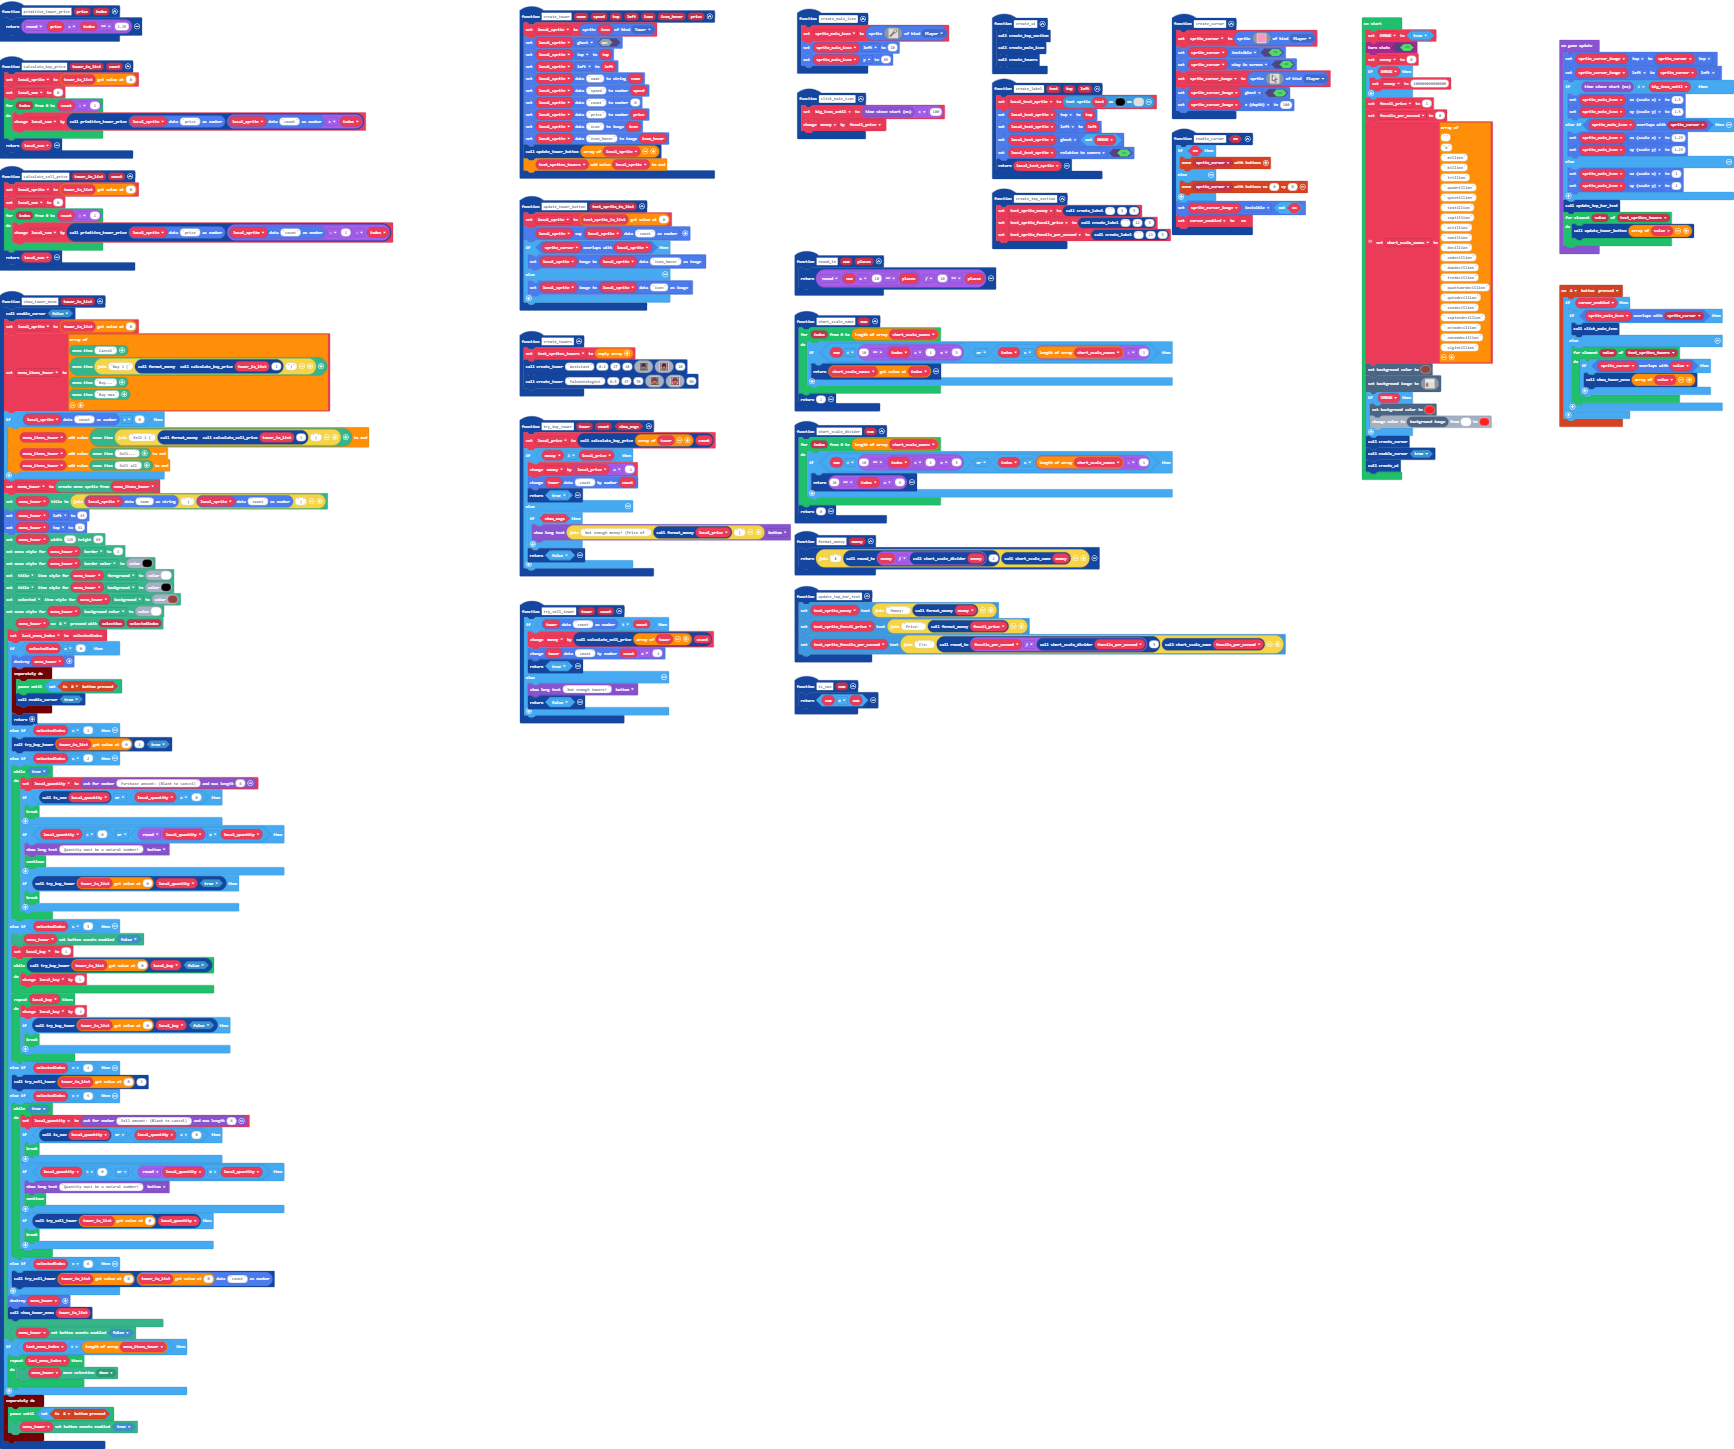
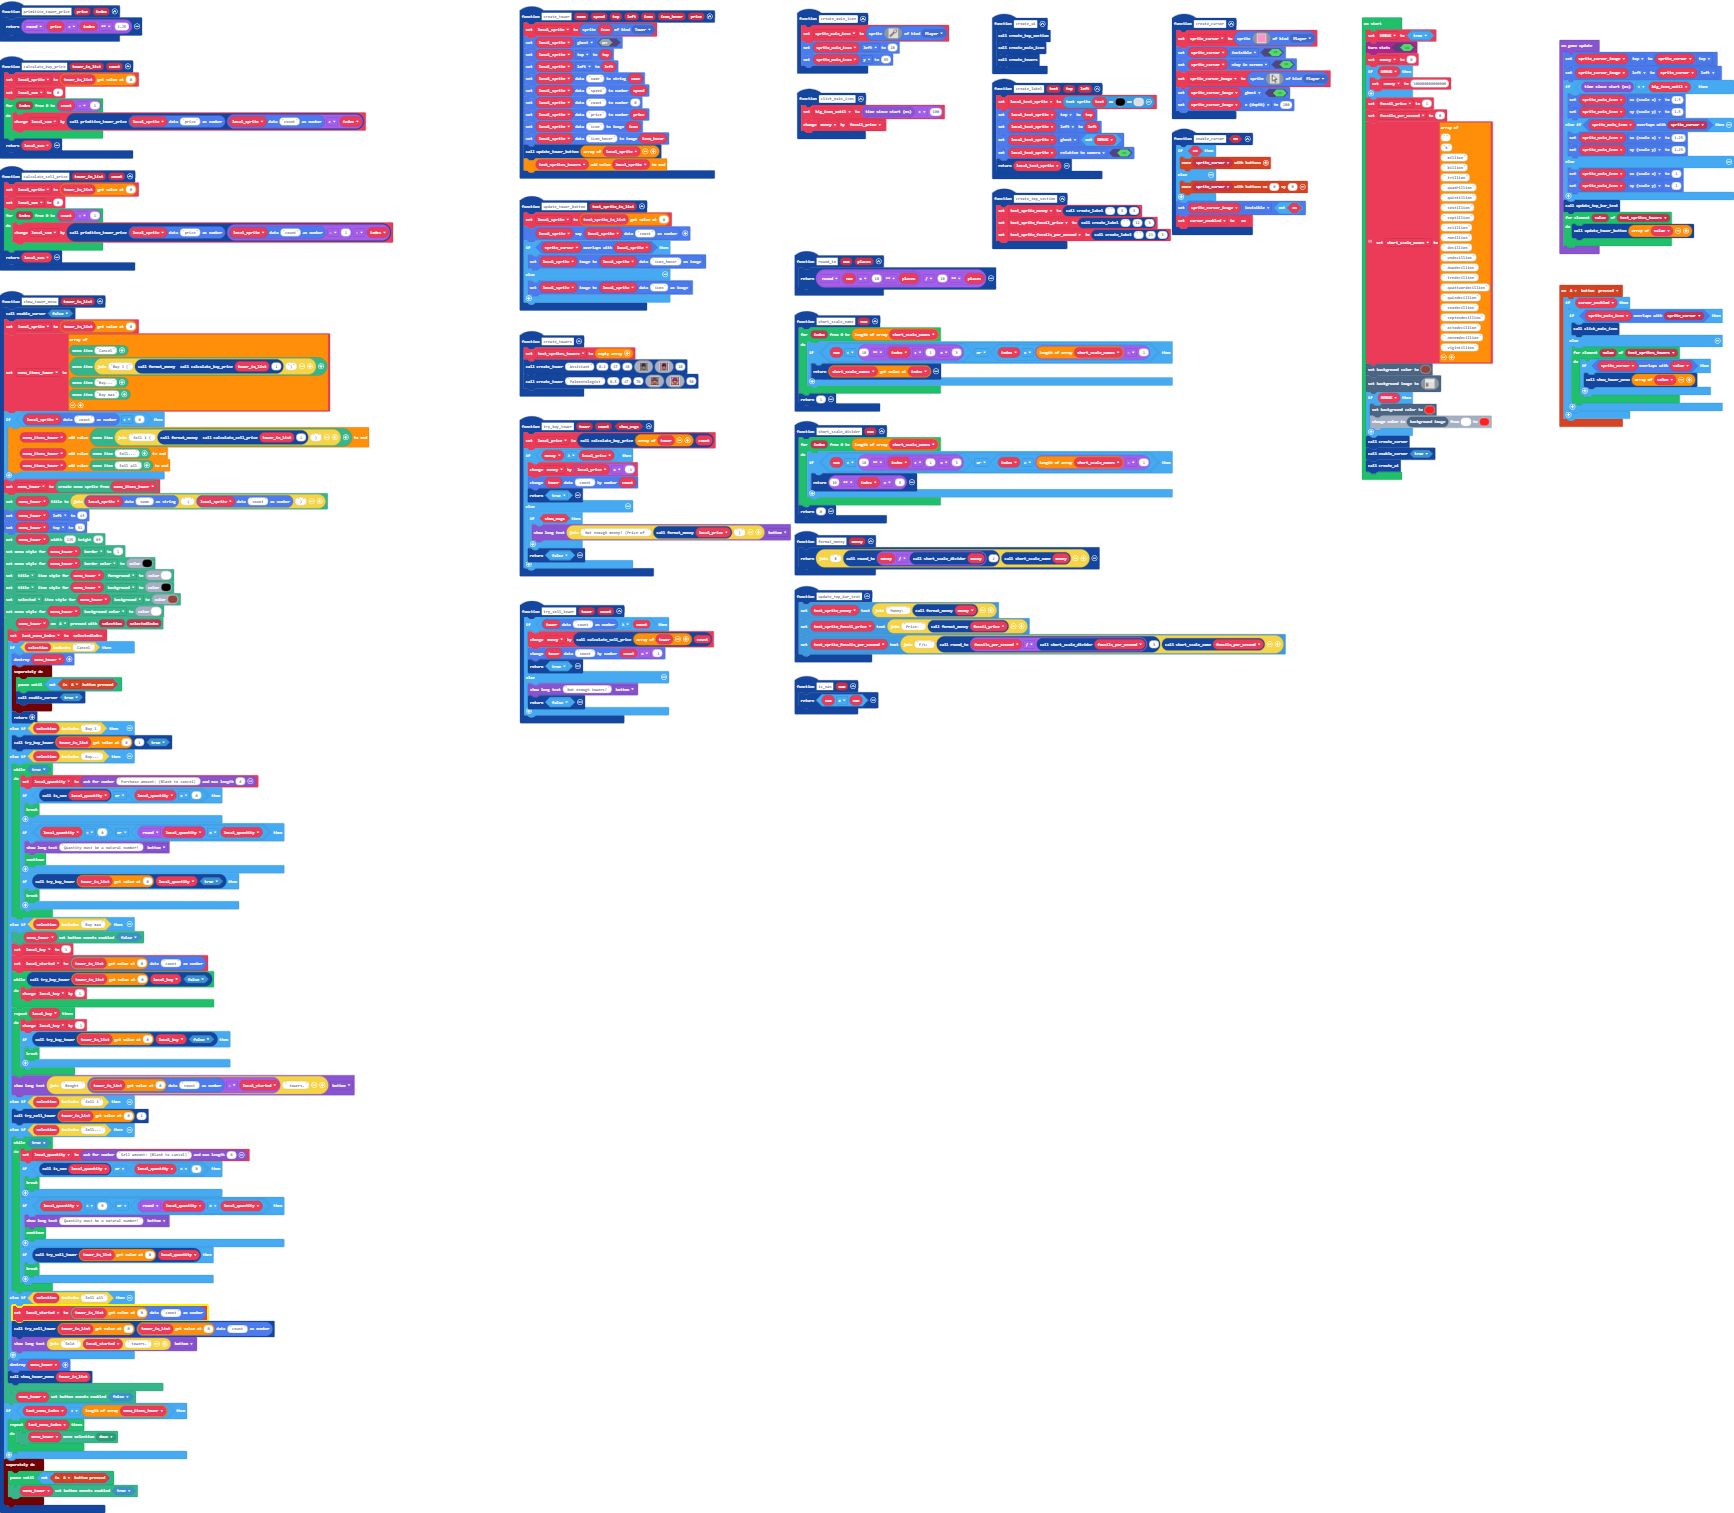
Bought and sold amount

Changed region(s): [[0.2803, 0.0, 0.872, 0.4969], [0.0, 0.0, 0.2491, 1.0], [0.9031, 0.0311, 1.0, 0.3106]]

diff --git a/main.ts b/main.ts
@@ -85,16 +85,16 @@ function show_tower_menu (tower_in_list: Sprite[]) {
     menu_tower.setMenuStyleProperty(miniMenu.MenuStyleProperty.BackgroundColor, images.colorBlock(1))
     menu_tower.onButtonPressed(controller.A, function (selection, selectedIndex) {
         last_menu_index = selectedIndex
-        if (selectedIndex == 0) {
+        if (selection.includes("Cancel")) {
             sprites.destroy(menu_tower)
             timer.background(function () {
                 pauseUntil(() => !(controller.A.isPressed()))
                 enable_cursor(true)
             })
             return
-        } else if (selectedIndex == 1) {
+        } else if (selection.includes("Buy 1")) {
             try_buy_tower(tower_in_list[0], 1, true)
-        } else if (selectedIndex == 2) {
+        } else if (selection.includes("Buy...")) {
             while (true) {
                 local_quantity = game.askForNumber("Purchase amount: (Blank to cancel)", 6)
                 if (is_nan(local_quantity) || local_quantity == 0) {
@@ -108,9 +108,10 @@ function show_tower_menu (tower_in_list: Sprite[]) {
                     break;
                 }
             }
-        } else if (selectedIndex == 3) {
+        } else if (selection.includes("Buy max")) {
             menu_tower.setButtonEventsEnabled(false)
             local_buy = 1
+            local_started = sprites.readDataNumber(tower_in_list[0], "count")
             while (try_buy_tower(tower_in_list[0], local_buy, false)) {
                 local_buy += 1
             }
@@ -120,9 +121,10 @@ function show_tower_menu (tower_in_list: Sprite[]) {
                     break;
                 }
             }
-        } else if (selectedIndex == 4) {
+            game.showLongText("Bought " + (sprites.readDataNumber(tower_in_list[0], "count") - local_started) + " towers.", DialogLayout.Bottom)
+        } else if (selection.includes("Sell 1")) {
             try_sell_tower(tower_in_list[0], 1)
-        } else if (selectedIndex == 5) {
+        } else if (selection.includes("Sell...")) {
             while (true) {
                 local_quantity = game.askForNumber("Sell amount: (Blank to cancel)", 6)
                 if (is_nan(local_quantity) || local_quantity == 0) {
@@ -136,8 +138,10 @@ function show_tower_menu (tower_in_list: Sprite[]) {
                     break;
                 }
             }
-        } else if (selectedIndex == 6) {
+        } else if (selection.includes("Sell all")) {
+            local_started = sprites.readDataNumber(tower_in_list[0], "count")
             try_sell_tower(tower_in_list[0], sprites.readDataNumber(tower_in_list[0], "count"))
+            game.showLongText("Sold " + local_started + " towers.", DialogLayout.Bottom)
         }
         sprites.destroy(menu_tower)
         show_tower_menu(tower_in_list)
@@ -257,6 +261,7 @@ let local_price = 0
 let big_icon_until = 0
 let local_sum = 0
 let sprite_cursor_image: Sprite = null
+let local_started = 0
 let local_buy = 0
 let local_quantity = 0
 let last_menu_index = 0
